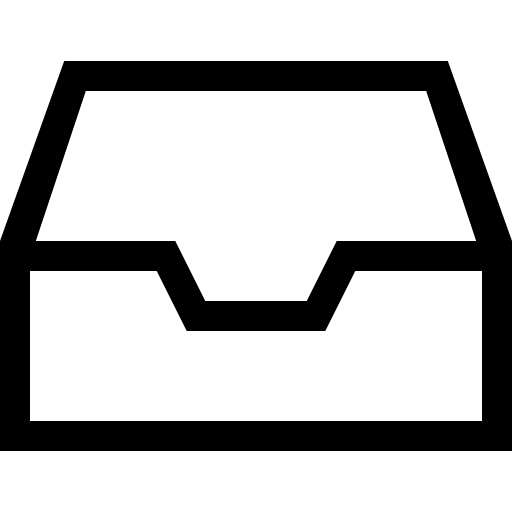
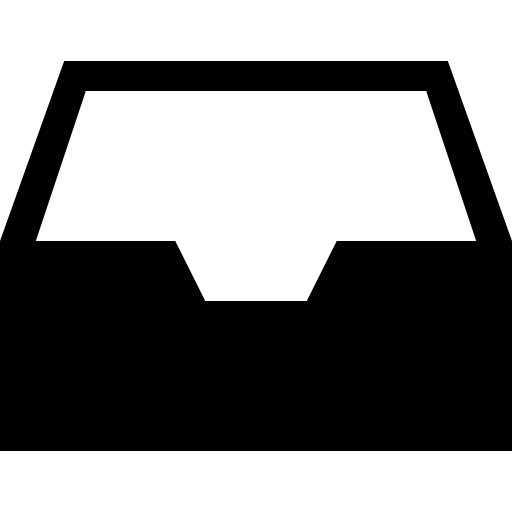
added nav-top-mails

Changed region(s): [[0.0312, 0.5312, 0.9688, 0.8438]]

diff --git a/index.html b/index.html
@@ -4,11 +4,18 @@
     <meta charset="UTF-8" />
     <meta name="viewport" content="width=device-width, initial-scale=1.0" />
     <title>Gmail</title>
+    <link rel="preconnect" href="https://fonts.googleapis.com" />
+    <link rel="preconnect" href="https://fonts.gstatic.com" crossorigin />
+    <link
+      href="https://fonts.googleapis.com/css2?family=Noto+Sans:ital,wght@0,100..900;1,100..900&display=swap"
+      rel="stylesheet"
+    />
     <link rel="icon" href="./assets/favicon.ico" />
     <link rel="stylesheet" href="./style/nav-more-left.css" />
     <link rel="stylesheet" href="./style/main.css" />
     <link rel="stylesheet" href="./style/nav-top.css" />
     <link rel="stylesheet" href="./style/nav-left.css" />
+    <link rel="stylesheet" href="./style/nav-top-mails.css" />
   </head>
   <body>
     <nav class="nav-left-left">
@@ -66,64 +73,81 @@
           </button>
         </div>
       </nav>
-      <nav class="nav-left">
-        <button>
-          <img src="./assets/pencil.png" alt="penicl icon" />
-          <span>Utwórz</span>
-        </button>
-        <ul>
-          <li>
-            <button>
-              <img src="./assets/received.png" alt="received icon" />
-              <span>Odebrane</span>
-              <span>99+</span>
-            </button>
-          </li>
-          <li>
-            <button>
-              <img src="./assets/star.png" alt="star icon" />
-              <span>Oznaczone gwiazdką</span>
-            </button>
-          </li>
-          <li>
-            <button>
-              <img src="./assets/clock.png" alt="clock icon" />
-              <span>Odłożone</span>
-            </button>
-          </li>
-          <li>
-            <button>
-              <img src="./assets/send.png" alt="send icon" />
-              <span>Wysłane</span>
-            </button>
-          </li>
-          <li>
-            <button>
-              <img src="./assets/draft.png" alt="draft icon" />
-              <span>Wersje robocze</span>
-            </button>
-          </li>
-          <li>
-            <button>
-              <img src="./assets/category.png" alt="category icon" />
-              <span>Kategorie</span>
-            </button>
-          </li>
-          <li>
-            <button>
-              <div></div>
-              <span>Więcej</span>
-            </button>
-          </li>
-          <!--Jeśli mi się zachce to mogę azrobić po rozwinięciu listy więcj kategori -->
-        </ul>
-        <div>
-          <span>Etykiety</span>
+      <div>
+        <nav class="nav-left">
           <button>
-            <span>+</span>
+            <img src="./assets/pencil.png" alt="penicl icon" />
+            <span>Utwórz</span>
           </button>
-        </div>
-      </nav>
+          <ul>
+            <li>
+              <button>
+                <img src="./assets/received.png" alt="received icon" />
+                <span>Odebrane</span>
+                <span>99+</span>
+              </button>
+            </li>
+            <li>
+              <button>
+                <img src="./assets/star.png" alt="star icon" />
+                <span>Oznaczone gwiazdką</span>
+              </button>
+            </li>
+            <li>
+              <button>
+                <img src="./assets/clock.png" alt="clock icon" />
+                <span>Odłożone</span>
+              </button>
+            </li>
+            <li>
+              <button>
+                <img src="./assets/send.png" alt="send icon" />
+                <span>Wysłane</span>
+              </button>
+            </li>
+            <li>
+              <button>
+                <img src="./assets/draft.png" alt="draft icon" />
+                <span>Wersje robocze</span>
+              </button>
+            </li>
+            <li>
+              <button>
+                <img src="./assets/category.png" alt="category icon" />
+                <span>Kategorie</span>
+              </button>
+            </li>
+            <li>
+              <button>
+                <div></div>
+                <span>Więcej</span>
+              </button>
+            </li>
+            <!--Jeśli mi się zachce to mogę zrobić po rozwinięciu listy więcj kategori -->
+          </ul>
+          <div>
+            <span>Etykiety</span>
+            <button>
+              <span>+</span>
+            </button>
+          </div>
+        </nav>
+        <nav class="nav-top-mails">
+          <button><div></div></button>
+          <button><div></div></button>
+          <button>
+            <img src="./assets/refresh.png" alt="refresh icon" />
+          </button>
+          <button>
+            <img src="./assets/3-dots.png" alt="3-dots icon" />
+          </button>
+          <button>
+            <span>1-50 z 186</span>
+          </button>
+          <button><div></div></button>
+          <button><div></div></button>
+        </nav>
+      </div>
     </div>
   </body>
 </html>

diff --git a/style/nav-top-mails.css b/style/nav-top-mails.css
@@ -1,0 +1,42 @@
+.nav-top-mails {
+  width: 100%;
+  height: 48px;
+}
+
+.nav-top-mails button {
+  border: none;
+  width: 40px;
+  height: 40px;
+}
+
+.nav-top-mails > button:first-child > div {
+  height: 10px;
+  width: 10px;
+  border: 2px solid;
+}
+
+.nav-top-mails > button:first-child {
+  margin: 0;
+  padding: 0;
+  display: flex;
+  justify-content: center;
+  align-items: center;
+}
+
+.nav-top-mails > button:nth-child(2) > div {
+  height: 8px;
+  width: 8px;
+  border-right: 2px solid;
+  border-bottom: 2px solid;
+  transform: rotate(45deg);
+}
+
+.nav-top-mails img,
+.nav-top-mails button {
+  background-color: transparent;
+}
+
+.nav-top-mails img {
+  width: 20px;
+  height: 20px;
+}

diff --git a/style/main.css b/style/main.css
@@ -3,10 +3,20 @@ body {
   justify-content: flex-start;
   padding: 0;
   margin: 0;
+  font-family: "Noto Sans", sans-serif;
+}
+
+span {
+  font-family: "Noto Sans", sans-serif;
 }
 
 body > div {
   display: flex;
   flex: 1;
   flex-direction: column;
+}
+
+body > div > div {
+  display: flex;
+  flex-direction: row;
 }

diff --git a/style/nav-left.css b/style/nav-left.css
@@ -57,6 +57,10 @@
   margin-left: auto;
 }
 
+.nav-left > ul > li:first-child > button > span {
+  font-weight: bold;
+}
+
 .nav-left > ul > li > button,
 .nav-left > ul > li {
   width: 100%;
